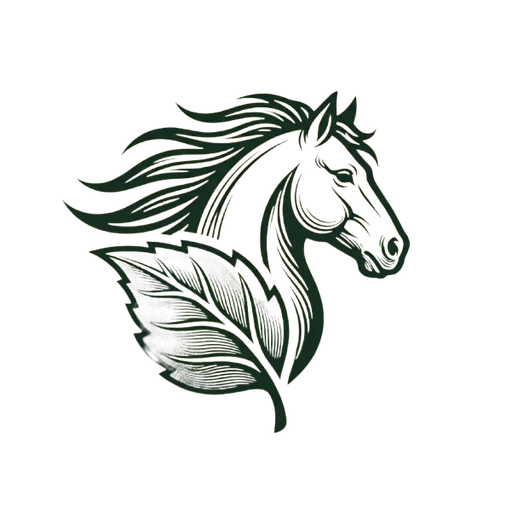
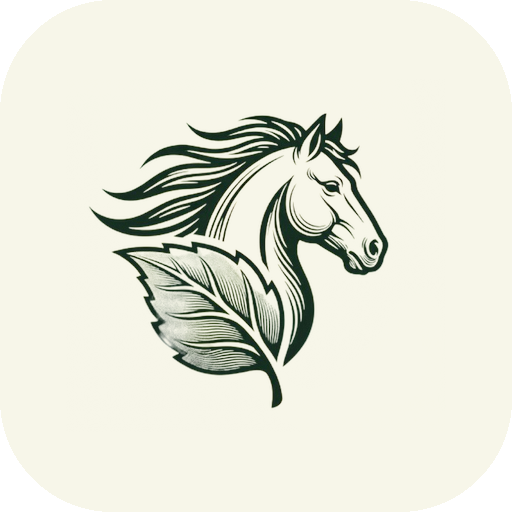
Профиль после входа, общий фон на всех страницах, иконка вкладки
Три недочёта, замеченных основателем.

Первое. После входа в шапке продолжала висеть кнопка «Войти», и понять,
вошёл ты или нет, было невозможно. Теперь почта берётся на сервере — без
мигания «гость → пользователь» при загрузке — и вместо кнопки появляется
значок профиля с меню: адрес, переход к созданию и выход.

Помощник, отдающий почту, никогда не бросает исключение: страницы обязаны
открываться и без базы, иначе неподключённый backend положил бы лендинг.

Второе. Страницы проекта и входа остались на сплошном светлом фоне и
выпадали из общего вида. У страницы проекта была ещё и своя шапка без
навигации. Обе переведены на общую шапку и общее фоновое свечение.

Третье. Иконка вкладки собрана заново из присланного логотипа. Прозрачный
вариант правильно выглядит на светлой панели вкладок и почти исчезает на
тёмной — знак сам по себе тёмно-зелёный. Поэтому под ним светлая подложка
цвета сайта: читается в обеих темах.

Проверено в браузере: до входа видна кнопка «Войти», после входа она
исчезает и появляется меню с адресом и выходом.

Changed region(s): [[0.125, 0.1562, 0.8125, 0.8438]]

diff --git a/web/app/components/UserMenu.tsx b/web/app/components/UserMenu.tsx
@@ -1,0 +1,98 @@
+"use client";
+
+import { useEffect, useRef, useState } from "react";
+import { useRouter } from "next/navigation";
+import Link from "next/link";
+import { createClient } from "@/lib/supabase/client";
+import { content } from "../lib/content";
+import type { Lang } from "../lib/i18n";
+import { motion } from "./motion";
+
+/**
+ * Меню вошедшего пользователя.
+ *
+ * Раньше после входа в шапке продолжала висеть кнопка «Войти», и понять,
+ * вошёл ты или нет, было невозможно.
+ */
+export function UserMenu({ lang, email }: { lang: Lang; email: string }) {
+  const t = content[lang];
+  const router = useRouter();
+  const [open, setOpen] = useState(false);
+  const [busy, setBusy] = useState(false);
+  const box = useRef<HTMLDivElement>(null);
+
+  useEffect(() => {
+    if (!open) return;
+    const onDown = (e: MouseEvent) => {
+      if (box.current && !box.current.contains(e.target as Node)) setOpen(false);
+    };
+    const onKey = (e: KeyboardEvent) => {
+      if (e.key === "Escape") setOpen(false);
+    };
+    document.addEventListener("mousedown", onDown);
+    document.addEventListener("keydown", onKey);
+    return () => {
+      document.removeEventListener("mousedown", onDown);
+      document.removeEventListener("keydown", onKey);
+    };
+  }, [open]);
+
+  async function signOut() {
+    setBusy(true);
+    try {
+      await createClient().auth.signOut();
+      router.push(`/${lang}`);
+      router.refresh();
+    } finally {
+      setBusy(false);
+      setOpen(false);
+    }
+  }
+
+  const initial = email.trim().charAt(0).toUpperCase() || "?";
+
+  return (
+    <div ref={box} className="relative">
+      <button
+        type="button"
+        onClick={() => setOpen((v) => !v)}
+        aria-expanded={open}
+        aria-haspopup="menu"
+        title={email}
+        className="flex h-10 w-10 items-center justify-center rounded-full border-[1.5px] border-ink/25 bg-white/50 font-display text-[14px] font-bold text-ink transition hover:border-ink"
+      >
+        {initial}
+      </button>
+
+      {open ? (
+        <motion.div
+          role="menu"
+          initial={{ opacity: 0, y: -6, scale: 0.97 }}
+          animate={{ opacity: 1, y: 0, scale: 1 }}
+          transition={{ duration: 0.18 }}
+          className="absolute right-0 top-full z-50 mt-2 w-[min(16rem,calc(100vw-2rem))] overflow-hidden rounded-2xl border border-ink/12 bg-paper shadow-[0_20px_50px_-24px_rgba(22,52,26,0.5)]"
+        >
+          <div className="border-b border-ink/10 px-4 py-3">
+            <div className="nav-link text-ink-soft/50">{t.nav.account}</div>
+            <div className="mt-1 truncate text-[13.5px] text-ink">{email}</div>
+          </div>
+          <Link
+            href={`/${lang}#top`}
+            onClick={() => setOpen(false)}
+            className="block px-4 py-3 text-[14px] text-ink-soft transition hover:bg-ink/5 hover:text-ink"
+          >
+            {t.nav.cta}
+          </Link>
+          <button
+            type="button"
+            onClick={signOut}
+            disabled={busy}
+            className="block w-full px-4 py-3 text-left text-[14px] text-ink-soft transition hover:bg-ink/5 hover:text-ink disabled:opacity-60"
+          >
+            {busy ? "…" : t.nav.signOut}
+          </button>
+        </motion.div>
+      ) : null}
+    </div>
+  );
+}

diff --git a/web/app/components/Nav.tsx b/web/app/components/Nav.tsx
@@ -6,6 +6,7 @@ import { content } from "../lib/content";
 import { LOCALES, LOCALE_META, type Lang } from "../lib/i18n";
 import { Logo } from "./ui";
 import { Magnetic, motion } from "./motion";
+import { UserMenu } from "./UserMenu";
 
 export function rememberLang(lang: Lang) {
   try {
@@ -20,7 +21,16 @@ export function rememberLang(lang: Lang) {
  * на бумажном. Пунктов всего два: продукт и тарифы. Больше в SaaS не нужно,
  * а лишние ссылки уводят от единственного действия — создать видео.
  */
-export function Nav({ lang, overlay = false }: { lang: Lang; overlay?: boolean }) {
+export function Nav({
+  lang,
+  overlay = false,
+  email = null,
+}: {
+  lang: Lang;
+  overlay?: boolean;
+  /** Почта вошедшего пользователя. null — показываем кнопку входа. */
+  email?: string | null;
+}) {
   const t = content[lang];
   const [open, setOpen] = useState(false);
   const [solid, setSolid] = useState(!overlay);
@@ -59,12 +69,14 @@ export function Nav({ lang, overlay = false }: { lang: Lang; overlay?: boolean }
         </nav>
 
         <div className="flex items-center gap-2">
-          <Link
-            href={`/${lang}/login`}
-            className="nav-link hidden text-ink-soft/75 transition hover:text-ink sm:block"
-          >
-            {t.nav.signIn}
-          </Link>
+          {email ? null : (
+            <Link
+              href={`/${lang}/login`}
+              className="nav-link hidden text-ink-soft/75 transition hover:text-ink sm:block"
+            >
+              {t.nav.signIn}
+            </Link>
+          )}
           <Magnetic strength={0.14} className="hidden sm:inline-block">
             <Link
               href={`/${lang}#top`}
@@ -73,6 +85,8 @@ export function Nav({ lang, overlay = false }: { lang: Lang; overlay?: boolean }
               {t.nav.cta}
             </Link>
           </Magnetic>
+
+          {email ? <UserMenu lang={lang} email={email} /> : null}
 
           <button
             type="button"
@@ -110,13 +124,17 @@ export function Nav({ lang, overlay = false }: { lang: Lang; overlay?: boolean }
                 {l.label}
               </Link>
             ))}
-            <Link
-              href={`/${lang}/login`}
-              onClick={() => setOpen(false)}
-              className="nav-link rounded-xl px-3 py-3 text-ink-soft/80 transition hover:bg-ink/5"
-            >
-              {t.nav.signIn}
-            </Link>
+            {email ? (
+              <span className="nav-link truncate px-3 py-3 text-ink-soft/60">{email}</span>
+            ) : (
+              <Link
+                href={`/${lang}/login`}
+                onClick={() => setOpen(false)}
+                className="nav-link rounded-xl px-3 py-3 text-ink-soft/80 transition hover:bg-ink/5"
+              >
+                {t.nav.signIn}
+              </Link>
+            )}
             <Link
               href={`/${lang}#top`}
               onClick={() => setOpen(false)}

diff --git a/web/app/[lang]/projects/[id]/status.tsx b/web/app/[lang]/projects/[id]/status.tsx
@@ -4,8 +4,11 @@ import { useCallback, useEffect, useRef, useState } from "react";
 import Link from "next/link";
 import type { Lang } from "../../../lib/i18n";
 import { studio } from "../../../lib/studio-content";
-import { Logo, ArrowIcon, CheckIcon } from "../../../components/ui";
+import { ArrowIcon, CheckIcon } from "../../../components/ui";
 import { motion } from "../../../components/motion";
+import { Nav } from "../../../components/Nav";
+import { Ambience } from "../../../components/Ambience";
+import { Footer } from "../../../components/Footer";
 
 type Scene = {
   order_index: number;
@@ -38,7 +41,15 @@ const POLL_MS = 3000;
  * показывать выдуманный прогресс. Опрос прекращается, как только состояние
  * стало окончательным.
  */
-export function ProjectStatus({ lang, projectId }: { lang: Lang; projectId: string }) {
+export function ProjectStatus({
+  lang,
+  projectId,
+  email,
+}: {
+  lang: Lang;
+  projectId: string;
+  email: string | null;
+}) {
   const s = studio[lang];
   const [data, setData] = useState<Data | null>(null);
   const [error, setError] = useState<string | null>(null);
@@ -84,22 +95,11 @@ export function ProjectStatus({ lang, projectId }: { lang: Lang; projectId: stri
   const failed = project?.status === "failed";
 
   return (
-    <div className="min-h-screen bg-paper">
-      <header className="border-b border-ink/10">
-        <div className="container-x flex h-24 items-center justify-between md:h-28">
-          <Link href={`/${lang}`} aria-label="Horsteppe">
-            <Logo />
-          </Link>
-          <Link
-            href={`/${lang}`}
-            className="nav-link inline-flex items-center gap-2 rounded-full border-[1.5px] border-ink/25 px-5 py-2.5 text-ink-soft transition hover:border-ink hover:text-ink"
-          >
-            {s.project.back}
-          </Link>
-        </div>
-      </header>
+    <>
+      <Ambience />
+      <Nav lang={lang} email={email} />
 
-      <main className="container-x py-12 md:py-16">
+      <main className="container-x min-h-[70svh] pb-16 pt-28 md:pb-20 md:pt-36">
         {error && !project ? (
           <p role="alert" className="rounded-2xl border border-ember/40 bg-white/60 px-5 py-4 text-[14.5px] text-ember">
             {error}
@@ -173,7 +173,9 @@ export function ProjectStatus({ lang, projectId }: { lang: Lang; projectId: stri
           <div className="h-40 animate-pulse rounded-2xl bg-ink/5" />
         ) : null}
       </main>
-    </div>
+
+      <Footer lang={lang} />
+    </>
   );
 }
 

diff --git a/web/app/lib/content.ts b/web/app/lib/content.ts
@@ -5,7 +5,7 @@ export type { Lang };
 export const CONTACT_EMAIL = "Horsteppe@gmail.com";
 
 export type Dict = {
-  nav: { product: string; pricing: string; signIn: string; cta: string };
+  nav: { product: string; pricing: string; signIn: string; signOut: string; account: string; cta: string };
   hero: { title: string; sub: string; scroll: string };
   steps: { n: string; title: string; text: string }[];
   values: { title: string; text: string }[];
@@ -23,7 +23,7 @@ export type Dict = {
 
 export const content: Record<Lang, Dict> = {
   en: {
-    nav: { product: "Product", pricing: "Pricing", signIn: "Sign in", cta: "Create video" },
+    nav: { product: "Product", pricing: "Pricing", signIn: "Sign in", signOut: "Sign out", account: "Signed in as", cta: "Create video" },
     hero: {
       title: "Orchestrating the Steppe.",
       sub: "Describe your video. Horsteppe writes it, shoots it, voices it and edits it.",
@@ -92,7 +92,7 @@ export const content: Record<Lang, Dict> = {
   },
 
   ru: {
-    nav: { product: "Продукт", pricing: "Тарифы", signIn: "Войти", cta: "Создать видео" },
+    nav: { product: "Продукт", pricing: "Тарифы", signIn: "Войти", signOut: "Выйти", account: "Вы вошли как", cta: "Создать видео" },
     hero: {
       title: "Оркестровка степи.",
       sub: "Опишите ролик. Horsteppe напишет сценарий, снимет, озвучит и смонтирует.",
@@ -161,7 +161,7 @@ export const content: Record<Lang, Dict> = {
   },
 
   kk: {
-    nav: { product: "Өнім", pricing: "Тарифтер", signIn: "Кіру", cta: "Бейне жасау" },
+    nav: { product: "Өнім", pricing: "Тарифтер", signIn: "Кіру", signOut: "Шығу", account: "Сіз кірдіңіз:", cta: "Бейне жасау" },
     hero: {
       title: "Дала оркестрі.",
       sub: "Роликті сипаттаңыз. Horsteppe сценарий жазып, түсіріп, дауыстап, монтаждайды.",

diff --git a/web/app/[lang]/login/form.tsx b/web/app/[lang]/login/form.tsx
@@ -7,6 +7,7 @@ import { createClient } from "@/lib/supabase/client";
 import type { Lang } from "../../lib/i18n";
 import { studio } from "../../lib/studio-content";
 import { Logo } from "../../components/ui";
+import { Ambience } from "../../components/Ambience";
 
 /** Вход и регистрация. Аккаунт нужен, чтобы лимиты защищали бюджет генерации. */
 export function LoginForm({ lang }: { lang: Lang }) {
@@ -57,7 +58,8 @@ export function LoginForm({ lang }: { lang: Lang }) {
   }
 
   return (
-    <div className="min-h-screen bg-paper">
+    <div className="min-h-screen">
+      <Ambience />
       <header className="border-b border-ink/10">
         <div className="container-x flex h-24 items-center md:h-28">
           <Link href={`/${lang}`} aria-label="Horsteppe">

diff --git a/web/app/lib/session.ts b/web/app/lib/session.ts
@@ -1,0 +1,21 @@
+import { createClient } from "@/lib/supabase/server";
+import { isBackendReady } from "@/lib/supabase/env";
+
+/**
+ * Почта вошедшего пользователя или null.
+ *
+ * Никогда не бросает исключение: страницы должны открываться и без базы,
+ * иначе неподключённый backend положит весь сайт, включая лендинг.
+ */
+export async function getSessionEmail(): Promise<string | null> {
+  if (!isBackendReady()) return null;
+  try {
+    const supabase = await createClient();
+    const {
+      data: { user },
+    } = await supabase.auth.getUser();
+    return user?.email ?? null;
+  } catch {
+    return null;
+  }
+}

diff --git a/web/app/components/Home.tsx b/web/app/components/Home.tsx
@@ -14,7 +14,7 @@ import { motion, Words, Reveal, Stagger, StaggerItem } from "./motion";
 
 const EASE = [0.16, 1, 0.3, 1] as const;
 
-export function Home({ lang }: { lang: Lang }) {
+export function Home({ lang, email }: { lang: Lang; email: string | null }) {
   const t = content[lang];
 
   const heroRef = useRef<HTMLElement>(null);
@@ -27,7 +27,7 @@ export function Home({ lang }: { lang: Lang }) {
   return (
     <>
       <Ambience />
-      <Nav lang={lang} overlay />
+      <Nav lang={lang} overlay email={email} />
 
       <header id="top" ref={heroRef} className="relative isolate">
         <Mesh />

diff --git a/web/app/components/PricingPage.tsx b/web/app/components/PricingPage.tsx
@@ -9,14 +9,14 @@ import { Footer } from "./Footer";
 import { CheckIcon } from "./ui";
 import { Reveal, Stagger, StaggerItem } from "./motion";
 
-export function PricingPage({ lang }: { lang: Lang }) {
+export function PricingPage({ lang, email }: { lang: Lang; email: string | null }) {
   const t = content[lang];
   const p = t.pricing;
 
   return (
     <>
       <Ambience />
-      <Nav lang={lang} />
+      <Nav lang={lang} email={email} />
 
       <main className="container-x pb-16 pt-28 md:pb-24 md:pt-36">
         <Reveal>

diff --git a/web/app/[lang]/projects/[id]/page.tsx b/web/app/[lang]/projects/[id]/page.tsx
@@ -1,4 +1,5 @@
 import { notFound } from "next/navigation";
+import { getSessionEmail } from "../../../lib/session";
 import { isLang } from "../../../lib/i18n";
 import { ProjectStatus } from "./status";
 
@@ -9,5 +10,6 @@ export default async function ProjectPage({
 }) {
   const { lang, id } = await params;
   if (!isLang(lang)) notFound();
-  return <ProjectStatus lang={lang} projectId={id} />;
+  const email = await getSessionEmail();
+  return <ProjectStatus lang={lang} projectId={id} email={email} />;
 }

diff --git a/web/app/[lang]/pricing/page.tsx b/web/app/[lang]/pricing/page.tsx
@@ -1,9 +1,11 @@
 import { notFound } from "next/navigation";
 import { PricingPage } from "../../components/PricingPage";
+import { getSessionEmail } from "../../lib/session";
 import { isLang } from "../../lib/i18n";
 
 export default async function Page({ params }: { params: Promise<{ lang: string }> }) {
   const { lang } = await params;
   if (!isLang(lang)) notFound();
-  return <PricingPage lang={lang} />;
+  const email = await getSessionEmail();
+  return <PricingPage lang={lang} email={email} />;
 }

diff --git a/web/app/[lang]/page.tsx b/web/app/[lang]/page.tsx
@@ -1,9 +1,11 @@
 import { notFound } from "next/navigation";
 import { Home } from "../components/Home";
+import { getSessionEmail } from "../lib/session";
 import { isLang } from "../lib/i18n";
 
 export default async function Page({ params }: { params: Promise<{ lang: string }> }) {
   const { lang } = await params;
   if (!isLang(lang)) notFound();
-  return <Home lang={lang} />;
+  const email = await getSessionEmail();
+  return <Home lang={lang} email={email} />;
 }
